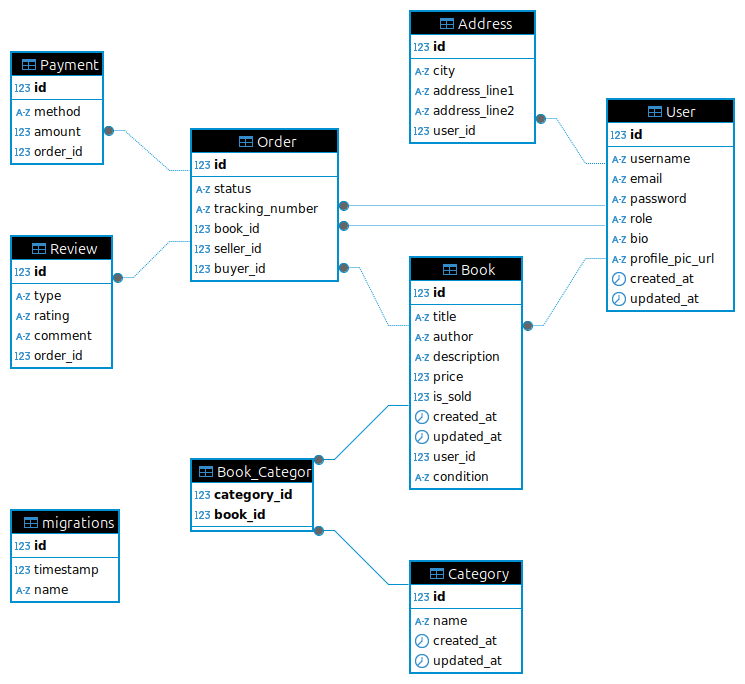
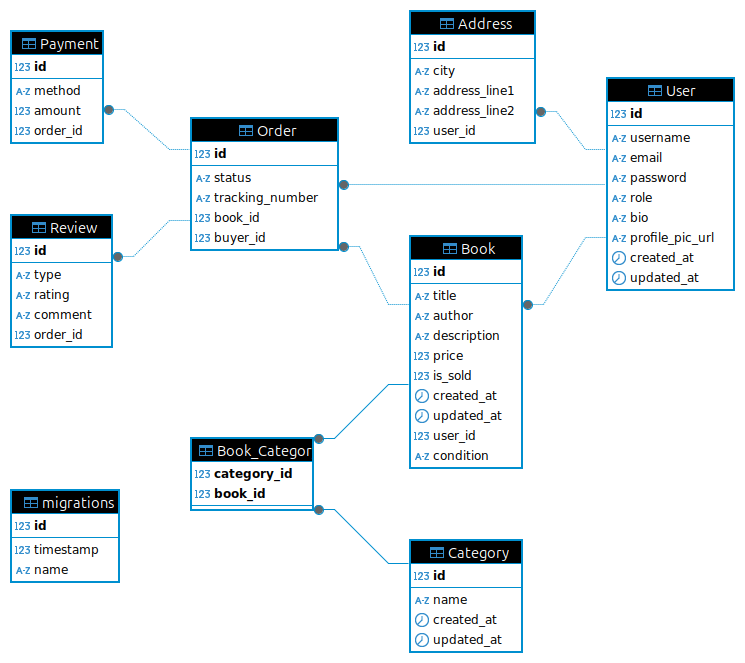
FIX: fixed redundancy in Order entity. (seller_id column was redundant and violated 2NF bcz it only depended on order_id, thus we can deduce it from there.)

diff --git a/server/src/migration/1736133033629-Make_FKs_Not_Nullable.ts b/server/src/migration/1736133033629-Make_FKs_Not_Nullable.ts
@@ -5,17 +5,14 @@ export class MakeFKsNotNullable1736133033629 implements MigrationInterface {
 
     public async up(queryRunner: QueryRunner): Promise<void> {
         await queryRunner.query(`ALTER TABLE \`Order\` DROP FOREIGN KEY \`FK_33edad7ab0e802d0ef7ec9e0b4e\``);
-        await queryRunner.query(`ALTER TABLE \`Order\` DROP FOREIGN KEY \`FK_1fe52f88df5760f67dc15c0adfe\``);
         await queryRunner.query(`ALTER TABLE \`Order\` DROP FOREIGN KEY \`FK_3e29e3fc28438e7e3667db6e459\``);
         await queryRunner.query(`DROP INDEX \`IDX_1adb2b81f0ee7fe86a8da08803\` ON \`Order\``);
         await queryRunner.query(`ALTER TABLE \`Order\` CHANGE \`book_id\` \`book_id\` int NOT NULL`);
-        await queryRunner.query(`ALTER TABLE \`Order\` CHANGE \`seller_id\` \`seller_id\` int NOT NULL`);
         await queryRunner.query(`ALTER TABLE \`Order\` CHANGE \`buyer_id\` \`buyer_id\` int NOT NULL`);
         await queryRunner.query(`ALTER TABLE \`Book\` DROP FOREIGN KEY \`FK_91ce9ef13dbc8654c348d696b64\``);
         await queryRunner.query(`ALTER TABLE \`Book\` CHANGE \`user_id\` \`user_id\` int NOT NULL`);
-        await queryRunner.query(`CREATE UNIQUE INDEX \`IDX_1adb2b81f0ee7fe86a8da08803\` ON \`Order\` (\`book_id\`, \`seller_id\`, \`buyer_id\`)`);
+        await queryRunner.query(`CREATE UNIQUE INDEX \`IDX_1adb2b81f0ee7fe86a8da08803\` ON \`Order\` (\`book_id\`, \`buyer_id\`)`);
         await queryRunner.query(`ALTER TABLE \`Order\` ADD CONSTRAINT \`FK_33edad7ab0e802d0ef7ec9e0b4e\` FOREIGN KEY (\`book_id\`) REFERENCES \`Book\`(\`id\`) ON DELETE NO ACTION ON UPDATE NO ACTION`);
-        await queryRunner.query(`ALTER TABLE \`Order\` ADD CONSTRAINT \`FK_1fe52f88df5760f67dc15c0adfe\` FOREIGN KEY (\`seller_id\`) REFERENCES \`User\`(\`id\`) ON DELETE NO ACTION ON UPDATE NO ACTION`);
         await queryRunner.query(`ALTER TABLE \`Order\` ADD CONSTRAINT \`FK_3e29e3fc28438e7e3667db6e459\` FOREIGN KEY (\`buyer_id\`) REFERENCES \`User\`(\`id\`) ON DELETE NO ACTION ON UPDATE NO ACTION`);
         await queryRunner.query(`ALTER TABLE \`Book\` ADD CONSTRAINT \`FK_91ce9ef13dbc8654c348d696b64\` FOREIGN KEY (\`user_id\`) REFERENCES \`User\`(\`id\`) ON DELETE NO ACTION ON UPDATE NO ACTION`);
     }
@@ -23,17 +20,14 @@ export class MakeFKsNotNullable1736133033629 implements MigrationInterface {
     public async down(queryRunner: QueryRunner): Promise<void> {
         await queryRunner.query(`ALTER TABLE \`Book\` DROP FOREIGN KEY \`FK_91ce9ef13dbc8654c348d696b64\``);
         await queryRunner.query(`ALTER TABLE \`Order\` DROP FOREIGN KEY \`FK_3e29e3fc28438e7e3667db6e459\``);
-        await queryRunner.query(`ALTER TABLE \`Order\` DROP FOREIGN KEY \`FK_1fe52f88df5760f67dc15c0adfe\``);
         await queryRunner.query(`ALTER TABLE \`Order\` DROP FOREIGN KEY \`FK_33edad7ab0e802d0ef7ec9e0b4e\``);
         await queryRunner.query(`DROP INDEX \`IDX_1adb2b81f0ee7fe86a8da08803\` ON \`Order\``);
         await queryRunner.query(`ALTER TABLE \`Book\` CHANGE \`user_id\` \`user_id\` int NULL`);
         await queryRunner.query(`ALTER TABLE \`Book\` ADD CONSTRAINT \`FK_91ce9ef13dbc8654c348d696b64\` FOREIGN KEY (\`user_id\`) REFERENCES \`User\`(\`id\`) ON DELETE NO ACTION ON UPDATE NO ACTION`);
         await queryRunner.query(`ALTER TABLE \`Order\` CHANGE \`buyer_id\` \`buyer_id\` int NULL`);
-        await queryRunner.query(`ALTER TABLE \`Order\` CHANGE \`seller_id\` \`seller_id\` int NULL`);
         await queryRunner.query(`ALTER TABLE \`Order\` CHANGE \`book_id\` \`book_id\` int NULL`);
-        await queryRunner.query(`CREATE UNIQUE INDEX \`IDX_1adb2b81f0ee7fe86a8da08803\` ON \`Order\` (\`book_id\`, \`seller_id\`, \`buyer_id\`)`);
+        await queryRunner.query(`CREATE UNIQUE INDEX \`IDX_1adb2b81f0ee7fe86a8da08803\` ON \`Order\` (\`book_id\`, \`buyer_id\`)`);
         await queryRunner.query(`ALTER TABLE \`Order\` ADD CONSTRAINT \`FK_3e29e3fc28438e7e3667db6e459\` FOREIGN KEY (\`buyer_id\`) REFERENCES \`User\`(\`id\`) ON DELETE NO ACTION ON UPDATE NO ACTION`);
-        await queryRunner.query(`ALTER TABLE \`Order\` ADD CONSTRAINT \`FK_1fe52f88df5760f67dc15c0adfe\` FOREIGN KEY (\`seller_id\`) REFERENCES \`User\`(\`id\`) ON DELETE NO ACTION ON UPDATE NO ACTION`);
         await queryRunner.query(`ALTER TABLE \`Order\` ADD CONSTRAINT \`FK_33edad7ab0e802d0ef7ec9e0b4e\` FOREIGN KEY (\`book_id\`) REFERENCES \`Book\`(\`id\`) ON DELETE NO ACTION ON UPDATE NO ACTION`);
     }
 

diff --git a/server/src/migration/1736127723150-Create_Order_Table.ts b/server/src/migration/1736127723150-Create_Order_Table.ts
@@ -5,9 +5,8 @@ export class CreateOrderTable1736127723150 implements MigrationInterface {
 
     public async up(queryRunner: QueryRunner): Promise<void> {
         await queryRunner.query(`ALTER TABLE \`Book_Category\` DROP FOREIGN KEY \`FK_da64fc2adb16a0165e9058984f5\``);
-        await queryRunner.query(`CREATE TABLE \`Order\` (\`id\` int NOT NULL AUTO_INCREMENT, \`status\` enum ('paid', 'to_be_sent', 'sent', 'in_transit', 'delivered', 'completed', 'return_requested', 'returned', 'refunded', 'cancelled') NOT NULL, \`tracking_number\` varchar(255) NULL, \`book_id\` int NULL, \`seller_id\` int NULL, \`buyer_id\` int NULL, UNIQUE INDEX \`IDX_3e193921be0412778af52ec394\` (\`tracking_number\`), PRIMARY KEY (\`id\`)) ENGINE=InnoDB`);
+        await queryRunner.query(`CREATE TABLE \`Order\` (\`id\` int NOT NULL AUTO_INCREMENT, \`status\` enum ('paid', 'to_be_sent', 'sent', 'in_transit', 'delivered', 'completed', 'return_requested', 'returned', 'refunded', 'cancelled') NOT NULL, \`tracking_number\` varchar(255) NULL, \`book_id\` int NULL, \`buyer_id\` int NULL, UNIQUE INDEX \`IDX_3e193921be0412778af52ec394\` (\`tracking_number\`), PRIMARY KEY (\`id\`)) ENGINE=InnoDB`);
         await queryRunner.query(`ALTER TABLE \`Order\` ADD CONSTRAINT \`FK_33edad7ab0e802d0ef7ec9e0b4e\` FOREIGN KEY (\`book_id\`) REFERENCES \`Book\`(\`id\`) ON DELETE NO ACTION ON UPDATE NO ACTION`);
-        await queryRunner.query(`ALTER TABLE \`Order\` ADD CONSTRAINT \`FK_1fe52f88df5760f67dc15c0adfe\` FOREIGN KEY (\`seller_id\`) REFERENCES \`User\`(\`id\`) ON DELETE NO ACTION ON UPDATE NO ACTION`);
         await queryRunner.query(`ALTER TABLE \`Order\` ADD CONSTRAINT \`FK_3e29e3fc28438e7e3667db6e459\` FOREIGN KEY (\`buyer_id\`) REFERENCES \`User\`(\`id\`) ON DELETE NO ACTION ON UPDATE NO ACTION`);
         await queryRunner.query(`ALTER TABLE \`Book_Category\` ADD CONSTRAINT \`FK_da64fc2adb16a0165e9058984f5\` FOREIGN KEY (\`book_id\`) REFERENCES \`Book\`(\`id\`) ON DELETE NO ACTION ON UPDATE NO ACTION`);
     }
@@ -15,7 +14,6 @@ export class CreateOrderTable1736127723150 implements MigrationInterface {
     public async down(queryRunner: QueryRunner): Promise<void> {
         await queryRunner.query(`ALTER TABLE \`Book_Category\` DROP FOREIGN KEY \`FK_da64fc2adb16a0165e9058984f5\``);
         await queryRunner.query(`ALTER TABLE \`Order\` DROP FOREIGN KEY \`FK_3e29e3fc28438e7e3667db6e459\``);
-        await queryRunner.query(`ALTER TABLE \`Order\` DROP FOREIGN KEY \`FK_1fe52f88df5760f67dc15c0adfe\``);
         await queryRunner.query(`ALTER TABLE \`Order\` DROP FOREIGN KEY \`FK_33edad7ab0e802d0ef7ec9e0b4e\``);
         await queryRunner.query(`DROP INDEX \`IDX_3e193921be0412778af52ec394\` ON \`Order\``);
         await queryRunner.query(`DROP TABLE \`Order\``);

diff --git a/server/src/migration/1736130248590-Retouches_On_Some_Tables.ts b/server/src/migration/1736130248590-Retouches_On_Some_Tables.ts
@@ -6,7 +6,7 @@ export class RetouchesOnSomeTables1736130248590 implements MigrationInterface {
     public async up(queryRunner: QueryRunner): Promise<void> {
         await queryRunner.query(`ALTER TABLE \`Book\` ADD \`condition\` enum ('new', 'like new', 'very good', 'good', 'acceptable') NOT NULL`);
         await queryRunner.query(`ALTER TABLE \`Order\` CHANGE \`status\` \`status\` enum ('paid', 'to be sent', 'sent', 'in transit', 'delivered', 'completed', 'return requested', 'returned', 'refunded', 'cancelled') NOT NULL`);
-        await queryRunner.query(`CREATE UNIQUE INDEX \`IDX_1adb2b81f0ee7fe86a8da08803\` ON \`Order\` (\`book_id\`, \`seller_id\`, \`buyer_id\`)`);
+        await queryRunner.query(`CREATE UNIQUE INDEX \`IDX_1adb2b81f0ee7fe86a8da08803\` ON \`Order\` (\`book_id\`, \`buyer_id\`)`);
     }
 
     public async down(queryRunner: QueryRunner): Promise<void> {

diff --git a/server/src/entity/Order.ts b/server/src/entity/Order.ts
@@ -6,7 +6,7 @@ import { Review } from './Review';
 import { Payment } from './Payment';
 
 @Entity('Order')
-@Unique(['book', 'seller', 'buyer'])
+@Unique(['book', 'buyer'])
 export class Order extends BaseEntity {
   @PrimaryGeneratedColumn()
   id: number;
@@ -20,16 +20,6 @@ export class Order extends BaseEntity {
     name: 'book_id',
   })
   book: Book;
-
-  @ManyToOne(() => User, (user) => user.sales, {
-    nullable: false,
-    onUpdate: 'CASCADE',
-    onDelete: 'CASCADE',
-  })
-  @JoinColumn({
-    name: 'seller_id',
-  })
-  seller: User;
 
   @ManyToOne(() => User, (user) => user.purchases, {
     nullable: false,

diff --git a/server/src/entity/Review.ts b/server/src/entity/Review.ts
@@ -3,7 +3,7 @@ import { ReviewRating, ReviewType } from '../types/reviewTypes.d.js';
 import { Order } from './Order';
 
 @Entity('Review')
-@Unique(['order', 'type']) // each order can (and should) have only two reviews, one from buyer and another frmo seller
+@Unique(['order', 'type']) // each order can (and should) have only two reviews, one from buyer and another from seller
 export class Review extends BaseEntity {
   @PrimaryGeneratedColumn()
   id: number;
